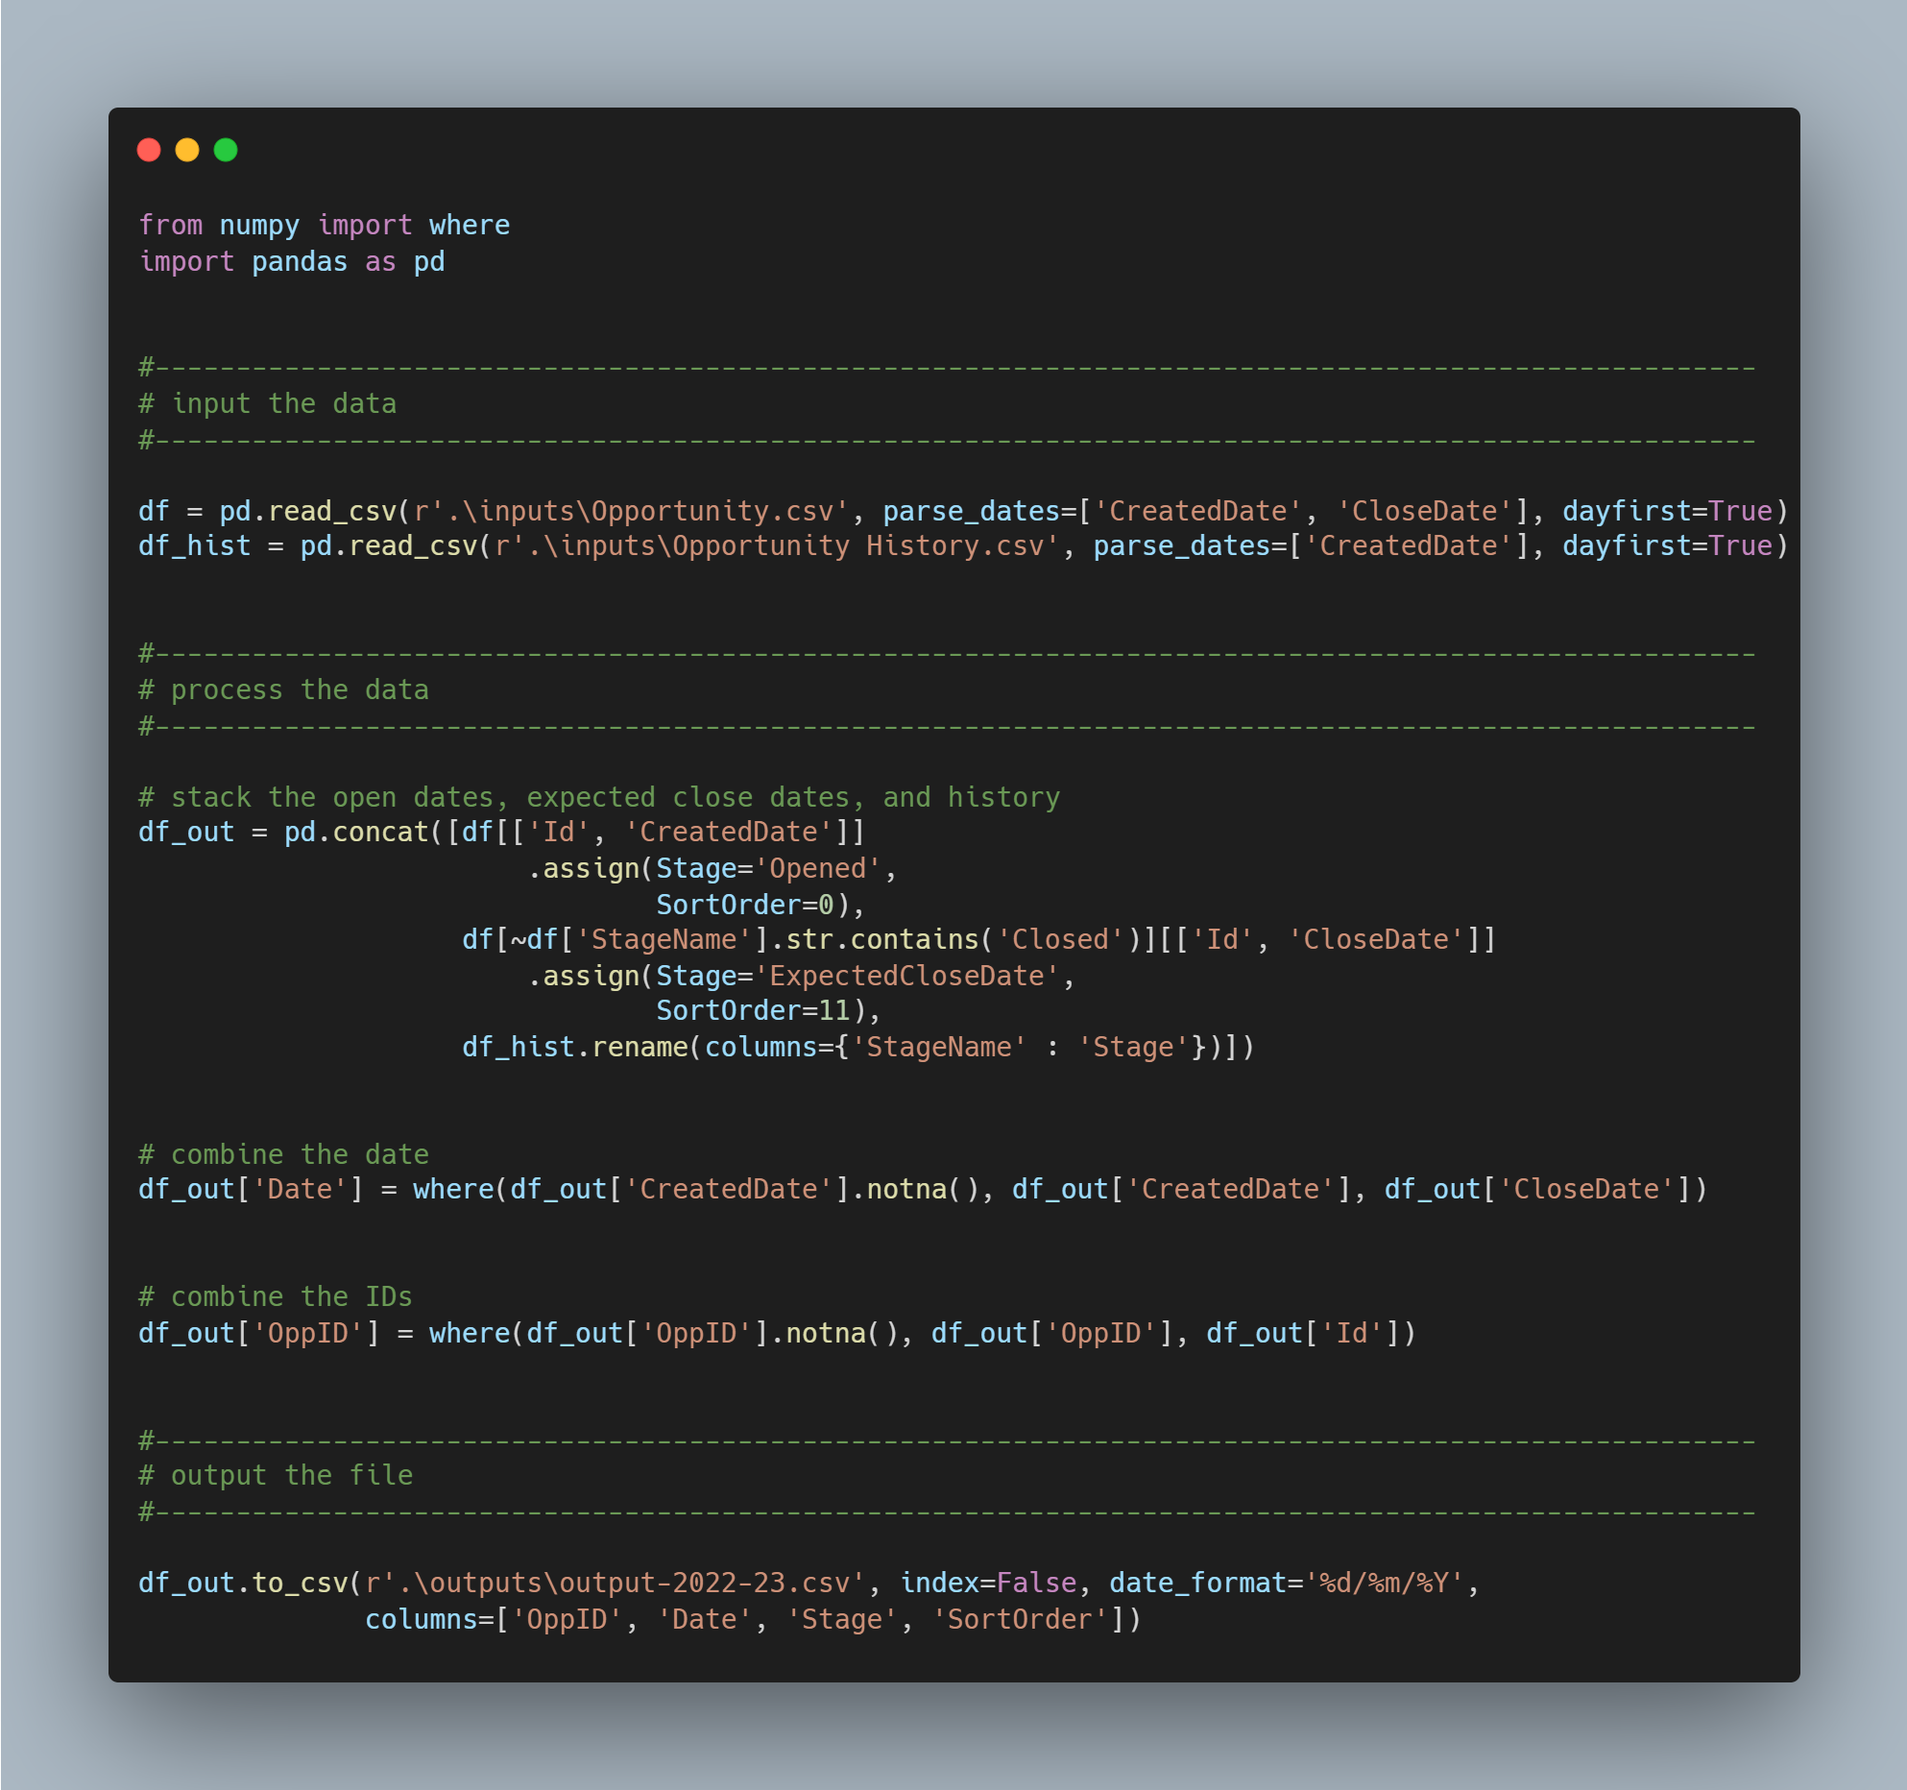
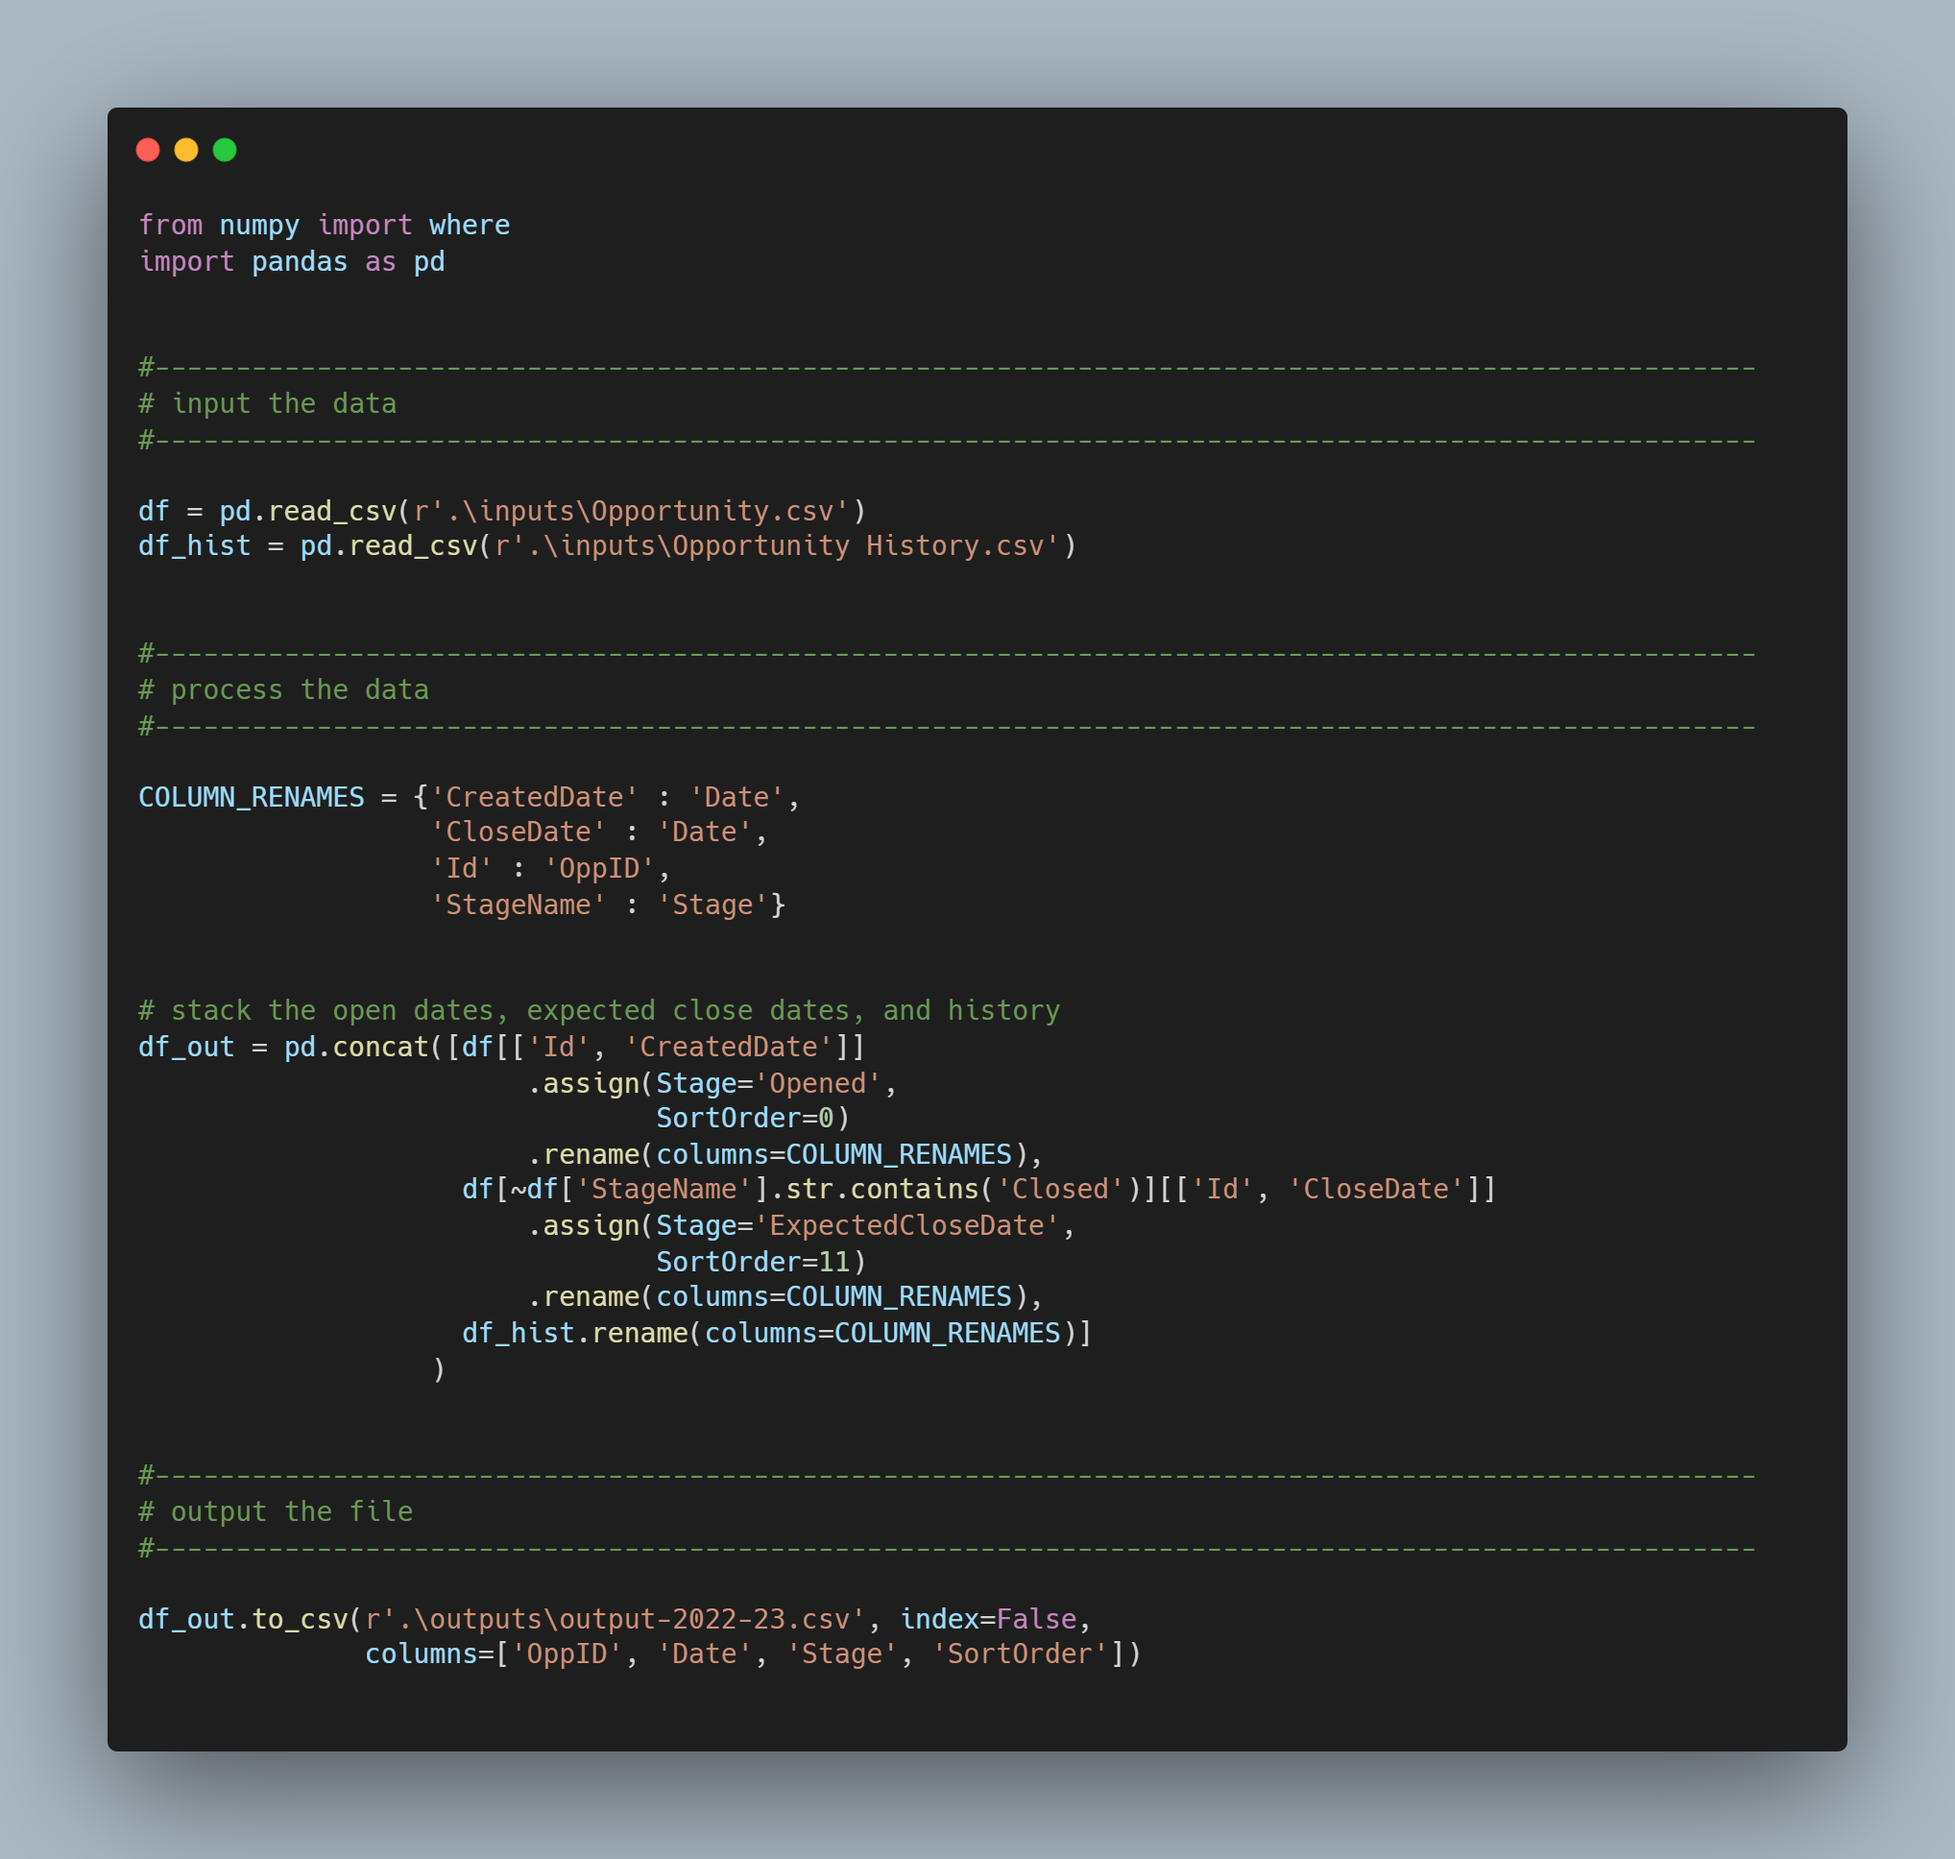
Added files for week 2022-23

diff --git a/2022/preppin-data-2022-23/preppin-data-2022-23.py b/2022/preppin-data-2022-23/preppin-data-2022-23.py
@@ -42,37 +42,37 @@ from output_check import output_check    # custom function for comparing my resu
 # input the data
 #---------------------------------------------------------------------------------------------------
 
-df = pd.read_csv(r'.\inputs\Opportunity.csv', parse_dates=['CreatedDate', 'CloseDate'], dayfirst=True)
-df_hist = pd.read_csv(r'.\inputs\Opportunity History.csv', parse_dates=['CreatedDate'], dayfirst=True)
+df = pd.read_csv(r'.\inputs\Opportunity.csv')
+df_hist = pd.read_csv(r'.\inputs\Opportunity History.csv')
 
 
 #---------------------------------------------------------------------------------------------------
 # process the data
 #---------------------------------------------------------------------------------------------------
 
+COLUMN_RENAMES = {'CreatedDate' : 'Date',
+                  'CloseDate' : 'Date',
+                  'Id' : 'OppID',
+                  'StageName' : 'Stage'}
+
 # stack the open dates, expected close dates, and history
 df_out = pd.concat([df[['Id', 'CreatedDate']]
                         .assign(Stage='Opened', 
-                                SortOrder=0),
+                                SortOrder=0)
+                        .rename(columns=COLUMN_RENAMES),
                     df[~df['StageName'].str.contains('Closed')][['Id', 'CloseDate']]
                         .assign(Stage='ExpectedCloseDate',
-                                SortOrder=11),
-                    df_hist.rename(columns={'StageName' : 'Stage'})])
-
-
-# combine the date
-df_out['Date'] = where(df_out['CreatedDate'].notna(), df_out['CreatedDate'], df_out['CloseDate'])
-
-
-# combine the IDs
-df_out['OppID'] = where(df_out['OppID'].notna(), df_out['OppID'], df_out['Id'])
+                                SortOrder=11)
+                        .rename(columns=COLUMN_RENAMES),
+                    df_hist.rename(columns=COLUMN_RENAMES)]
+                  )
 
 
 #---------------------------------------------------------------------------------------------------
 # output the file
 #---------------------------------------------------------------------------------------------------
 
-df_out.to_csv(r'.\outputs\output-2022-23.csv', index=False, date_format='%d/%m/%Y', 
+df_out.to_csv(r'.\outputs\output-2022-23.csv', index=False, 
               columns=['OppID', 'Date', 'Stage', 'SortOrder'])
 
 
@@ -176,26 +176,24 @@ df_out['SortOrder'] = where(df_out['SortOrder'].notna(),
 
 
 
-# option 3 - assign in chain, manage dates/ID separately
-# 799 ms ± 25.2 ms per loop (mean ± std. dev. of 7 runs, 1 loop each)
+# final (option 1, tidied up by using a common dictionary for the renames)
+# 716 ms ± 15.1 ms per loop (mean ± std. dev. of 7 runs, 1 loop each)
 # original df x 5000 (1.1 M recs)
- 
+
 %%timeit 
-# stack the open dates, expected close dates, and history
+COLUMN_RENAMES = {'CreatedDate' : 'Date',
+                  'CloseDate' : 'Date',
+                  'Id' : 'OppID',
+                  'StageName' : 'Stage'}
+
 df_out = pd.concat([df[['Id', 'CreatedDate']]
                         .assign(Stage='Opened', 
-                                SortOrder=0),
+                                SortOrder=0)
+                        .rename(columns=COLUMN_RENAMES),
                     df[~df['StageName'].str.contains('Closed')][['Id', 'CloseDate']]
                         .assign(Stage='ExpectedCloseDate',
-                                SortOrder=11),
-                    df_hist.rename(columns={'StageName' : 'Stage'})])
-
-
-# combine the date
-df_out['Date'] = where(df_out['CreatedDate'].notna(), df_out['CreatedDate'], df_out['CloseDate'])
-
-
-# combine the IDs
-df_out['OppID'] = where(df_out['OppID'].notna(), df_out['OppID'], df_out['Id'])
-
+                                SortOrder=11)
+                        .rename(columns=COLUMN_RENAMES),
+                    df_hist.rename(columns=COLUMN_RENAMES)]
+                  )
 
